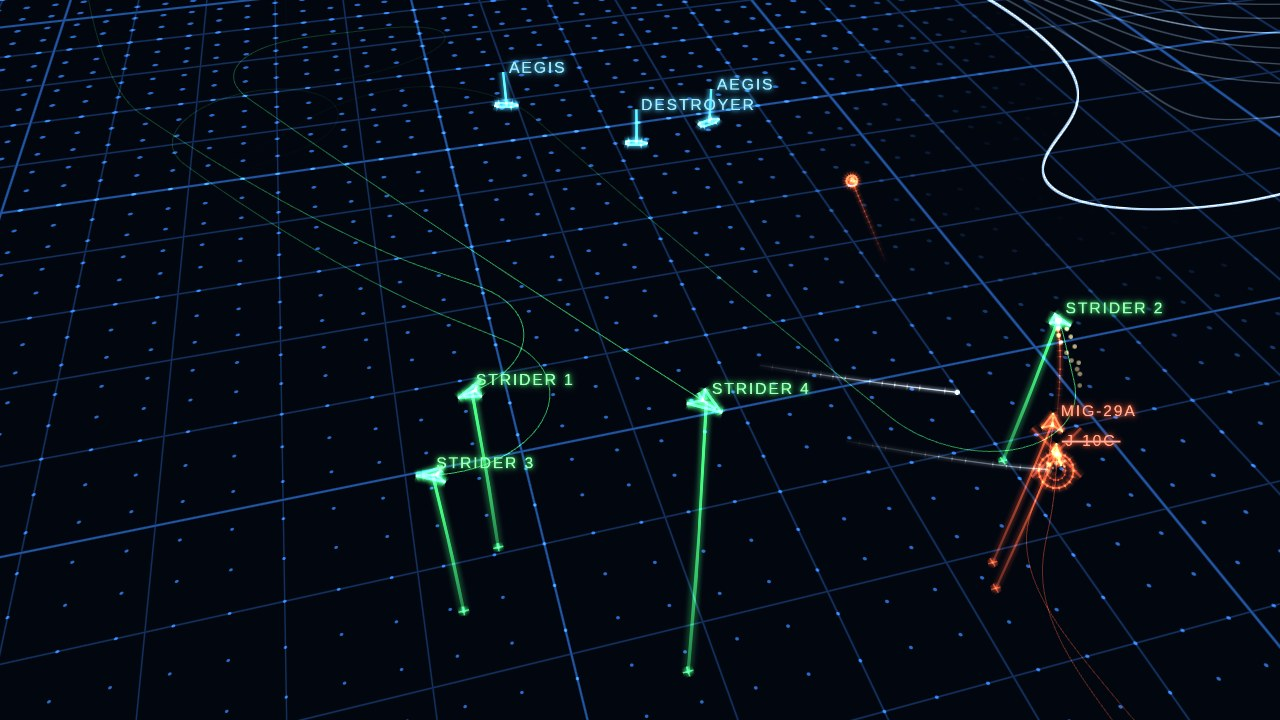
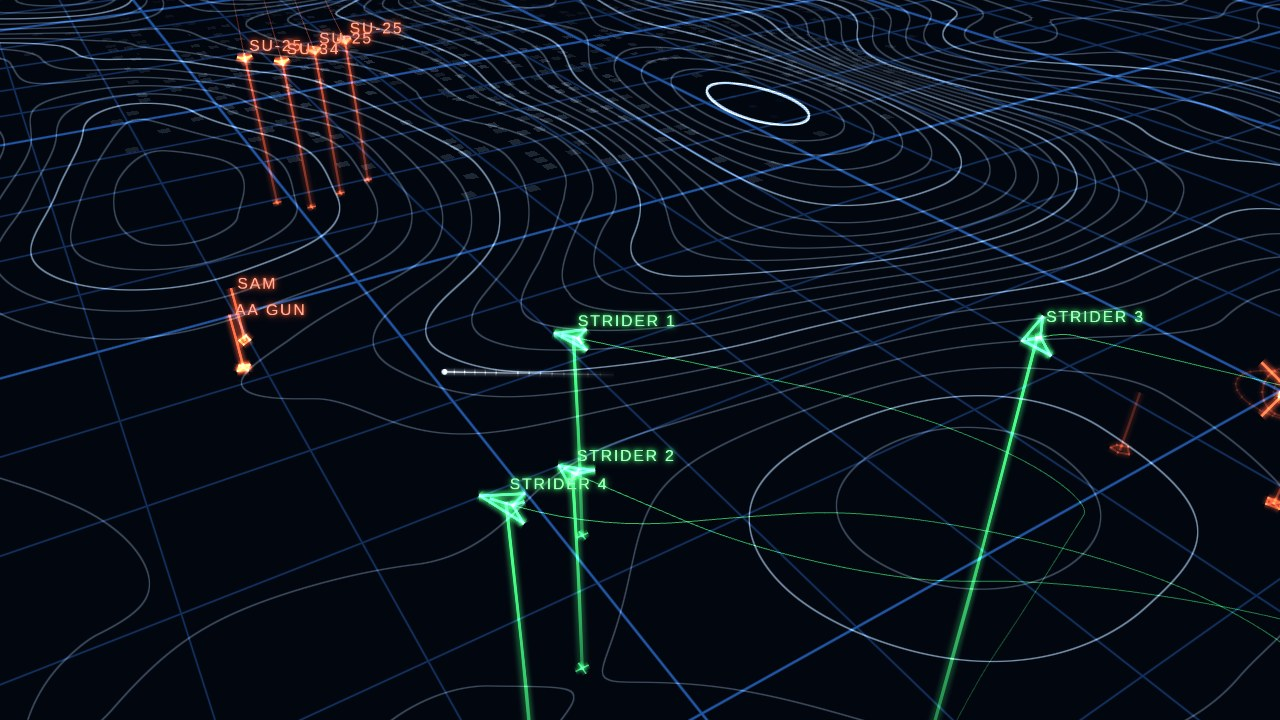
More land: smaller continents, the route heads for a coast after long stretches of sea
Continents, mountains and cities at half the scale; ROUTE scouts ±90° for the nearest coast after 60 s
of open sea (150 s of land). Longest sea stretch over 12 random 20-min runs: 139 s (was up to 751 s).
Leftover enemy ground units fade 25-45 s after a fight.

diff --git a/js/squad.js b/js/squad.js
@@ -7,6 +7,7 @@
    Plane modes: form (slot flying) | engage (attack run on p.target) | reposition (after a shot / a break, maneuvers) |
    rejoin (back to the slot after a fight). Evading a missile is a break turn + flares, then reposition. */
 const CRUISE = 24;
+const SAME_SEA_T = 60, SAME_LAND_T = 150, SCOUT_R = 3000;   // s over open sea / land before the route heads for a coast; look-out range
 const FORMATIONS = {   // slots: [right, up, back] relative to ROUTE (lead first)
   finger:  [[0, 0, 0], [-9, 0, -7], [9, 0, -7], [18, 0, -14]],
   diamond: [[0, 0, 0], [-9, -1, -7], [9, -1, -7], [0, -2, -14]],
@@ -16,17 +17,35 @@ const FORMATIONS = {   // slots: [right, up, back] relative to ROUTE (lead first
 };
 const ROUTE = {
   pos: new V3(0, 70, 0), heading: 0, tgtHeading: 0, alt: 70, tgtAlt: 70, speed: CRUISE, turnT: 25, altT: 12,
-  fwd: new V3(0, 0, 1), right: new V3(-1, 0, 0), combat: false,
+  fwd: new V3(0, 0, 1), right: new V3(-1, 0, 0), combat: false, overLand: false, sameT: 0, scouted: false,
   get cruise() { return CRUISE * CFG.speed / 100; },
   update(dt) {
     this.turnT -= dt; this.altT -= dt;
-    if (this.turnT <= 0) { this.turnT = rand(18, 50); this.tgtHeading = this.heading + (Math.random() < 0.5 ? -1 : 1) * rand(15, 75) * DEG; }
+    // variety: open sea (or land) that goes on too long → turn toward the nearest coast
+    const over = TERRAIN.land(this.pos.x, this.pos.z) > 0;
+    if (over !== this.overLand) { this.overLand = over; this.sameT = 0; this.scouted = false; } else this.sameT += dt;
+    if (!this.scouted && this.sameT > (over ? SAME_LAND_T : SAME_SEA_T)) { this.scouted = true; this.turnT = Math.min(this.turnT, 0); }
+    if (this.turnT <= 0) {
+      this.turnT = rand(18, 50);
+      const coast = this.scouted && this.sameT > 1 ? this.scout(!over) : null;
+      this.tgtHeading = coast != null ? coast : this.heading + (Math.random() < 0.5 ? -1 : 1) * rand(15, 75) * DEG;
+    }
     if (this.altT <= 0) { this.altT = rand(10, 30); this.tgtAlt = rand(38, 140); }
     this.heading = approachAngle(this.heading, this.tgtHeading, 0.06 * dt);
     this.alt += clamp(this.tgtAlt - this.alt, -3.5 * dt, 3.5 * dt);
     const sp = this.combat ? this.cruise * 0.45 : this.cruise; this.speed += clamp(sp - this.speed, -6 * dt, 4 * dt);
     this.fwd.set(Math.sin(this.heading), 0, Math.cos(this.heading)); this.right.set(-Math.cos(this.heading), 0, Math.sin(this.heading));
     this.pos.addScaledVector(this.fwd, this.speed * dt); this.pos.y = this.alt;
+  },
+  /* the heading (within ±90°) that reaches land (wantLand) or sea soonest, or null if none within SCOUT_R */
+  scout(wantLand) {
+    let best = null, bd = Infinity;
+    for (let a = -90; a <= 90; a += 15) {
+      const h = this.heading + a * DEG, sx = Math.sin(h), sz = Math.cos(h);
+      for (let d = 150; d <= SCOUT_R && d < bd; d += 150)
+        if ((TERRAIN.land(this.pos.x + sx * d, this.pos.z + sz * d) > 0) === wantLand) { if (d + Math.abs(a) < bd) { bd = d + Math.abs(a); best = h; } break; }
+    }
+    return best;
   },
   /* world position of a formation offset */
   slot(o, out) { return out.copy(this.pos).addScaledVector(this.right, o[0]).addScaledVector(this.fwd, o[2]).setY(this.pos.y + o[1]); },

diff --git a/js/noise.js b/js/noise.js
@@ -27,18 +27,18 @@ const wrapP = v => ((v % NOISE_P) + NOISE_P) % NOISE_P;
    relief(x, z): ≥ 0, contour lines are drawn on it (mountains get many).
    city(x, z): 0..1 built-up area (low land only). */
 function landField(x, z) {
-  const big = vnoise(x, z, 8192, 1);                                     // continents vs oceans
-  const f = vnoise(x, z, 2048, 2) * 0.5 + vnoise(x, z, 1024, 3) * 0.27 + vnoise(x, z, 512, 4) * 0.15 + vnoise(x, z, 256, 5) * 0.08;
-  return f - 0.5 + (big - 0.5) * 0.7;
+  const big = vnoise(x, z, 4096, 1);                                     // continents vs oceans
+  const f = vnoise(x, z, 1024, 2) * 0.5 + vnoise(x, z, 512, 3) * 0.27 + vnoise(x, z, 256, 4) * 0.15 + vnoise(x, z, 128, 5) * 0.08;
+  return f - 0.5 + (big - 0.5) * 0.5;
 }
-function mountField(x, z) { const m = vnoise(x, z, 4096, 6); return m * m * (3 - 2 * m); }
+function mountField(x, z) { const m = vnoise(x, z, 2048, 6); return m * m * (3 - 2 * m); }
 function reliefField(x, z, land) {
   const mt = clamp((mountField(x, z) - 0.45) / 0.3, 0, 1);
   const r = vnoise(x, z, 512, 7) * 0.6 + vnoise(x, z, 128, 8) * 0.3 + vnoise(x, z, 64, 9) * 0.1;
   return Math.max(land, 0) * (1.2 + mt * 5) + mt * r * Math.min(1, Math.max(land, 0) * 12) * 1.6;
 }
 function cityField(x, z, land) {
-  const c = clamp((vnoise(x, z, 1024, 10) - 0.62) / 0.12, 0, 1);
+  const c = clamp((vnoise(x, z, 512, 10) - 0.62) / 0.12, 0, 1);
   return c * clamp(land * 30, 0, 1) * clamp((0.2 - land) * 10, 0, 1);
 }
 
@@ -53,18 +53,18 @@ float vnoise(vec2 p, float cell, float s){
   return a + (b - a) * u.x + (c - a) * u.y + (a - b - c + d) * u.x * u.y;
 }
 float landField(vec2 p){
-  float big = vnoise(p, 8192.0, 1.0);
-  float f = vnoise(p, 2048.0, 2.0) * 0.5 + vnoise(p, 1024.0, 3.0) * 0.27 + vnoise(p, 512.0, 4.0) * 0.15 + vnoise(p, 256.0, 5.0) * 0.08;
-  return f - 0.5 + (big - 0.5) * 0.7;
+  float big = vnoise(p, 4096.0, 1.0);
+  float f = vnoise(p, 1024.0, 2.0) * 0.5 + vnoise(p, 512.0, 3.0) * 0.27 + vnoise(p, 256.0, 4.0) * 0.15 + vnoise(p, 128.0, 5.0) * 0.08;
+  return f - 0.5 + (big - 0.5) * 0.5;
 }
-float mountField(vec2 p){ float m = vnoise(p, 4096.0, 6.0); return m * m * (3.0 - 2.0 * m); }
+float mountField(vec2 p){ float m = vnoise(p, 2048.0, 6.0); return m * m * (3.0 - 2.0 * m); }
 float reliefField(vec2 p, float land){
   float mt = clamp((mountField(p) - 0.45) / 0.3, 0.0, 1.0);
   float r = vnoise(p, 512.0, 7.0) * 0.6 + vnoise(p, 128.0, 8.0) * 0.3 + vnoise(p, 64.0, 9.0) * 0.1;
   return max(land, 0.0) * (1.2 + mt * 5.0) + mt * r * min(1.0, max(land, 0.0) * 12.0) * 1.6;
 }
 float cityField(vec2 p, float land){
-  float c = clamp((vnoise(p, 1024.0, 10.0) - 0.62) / 0.12, 0.0, 1.0);
+  float c = clamp((vnoise(p, 512.0, 10.0) - 0.62) / 0.12, 0.0, 1.0);
   return c * clamp(land * 30.0, 0.0, 1.0) * clamp((0.2 - land) * 10.0, 0.0, 1.0);
 }
 `;

diff --git a/tests/flight.spec.js b/tests/flight.spec.js
@@ -4,20 +4,22 @@ const { test, expect } = require('./support/harness');
 test('20 minutes of peace: formation, altitude changes, new landscape, floating origin', async ({ wp }) => {
   await wp.boot();
   const r = await wp.run(() => {
-    const out = { violations: [], slotErr: [], alts: [], land: 0, sea: 0, headings: [], rolls: 0 };
+    const out = { violations: [], slotErr: [], alts: [], land: 0, sea: 0, headings: [], rolls: 0, seaRun: 0, longestSea: 0, crossings: 0, prev: null };
     const sl = new THREE.Vector3();
     __t.sim(30, { audio: false });
     for (let k = 0; k < 1170; k++) {             // 19.5 min, one sample per second
       const res = __t.sim(1, { audio: false }); out.violations.push(...res.violations);
       for (const p of SQUAD.planes.slice(1)) if (!p.maneuvering) out.slotErr.push(ROUTE.slot(FORMATIONS[SQUAD.form][p.idx], sl).distanceTo(p.pos));
       out.alts.push(ROUTE.alt); out.headings.push(ROUTE.heading);
-      if (TERRAIN.land(ROUTE.pos.x, ROUTE.pos.z) > 0) out.land++; else out.sea++;
+      const over = TERRAIN.land(ROUTE.pos.x, ROUTE.pos.z) > 0;
+      if (over) { out.land++; out.seaRun = 0; } else { out.sea++; out.longestSea = Math.max(out.longestSea, ++out.seaRun); }
+      if (out.prev !== null && over !== out.prev) out.crossings++; out.prev = over;
       if (SQUAD.planes.some(p => p.maneuvering)) out.rolls++;
     }
     out.slotErr.sort((a, b) => a - b);
     return { violations: out.violations.slice(0, 10), p50: out.slotErr[Math.floor(out.slotErr.length * 0.5)], p95: out.slotErr[Math.floor(out.slotErr.length * 0.95)],
       altRange: Math.max(...out.alts) - Math.min(...out.alts), headRange: Math.max(...out.headings) - Math.min(...out.headings),
-      land: out.land, sea: out.sea, shifts: WORLD.shifts, rolls: out.rolls, enemies: ENEMIES.spawned, modes: SQUAD.planes.map(p => p.mode) };
+      land: out.land, sea: out.sea, longestSea: out.longestSea, crossings: out.crossings, shifts: WORLD.shifts, rolls: out.rolls, enemies: ENEMIES.spawned, modes: SQUAD.planes.map(p => p.mode) };
   });
   expect(r.violations).toEqual([]);
   expect(r.p50, 'median distance from the formation slot').toBeLessThan(6);
@@ -26,6 +28,8 @@ test('20 minutes of peace: formation, altitude changes, new landscape, floating 
   expect(r.headRange, 'the route turns').toBeGreaterThan(0.5);
   expect(r.land, 'flies over land').toBeGreaterThan(10);
   expect(r.sea, 'flies over sea').toBeGreaterThan(10);
+  expect(r.longestSea, 'seconds of open sea in a row (the route heads for a coast)').toBeLessThan(200);
+  expect(r.crossings, 'coastlines crossed').toBeGreaterThan(8);
   expect(r.shifts, 'the floating origin recentred').toBeGreaterThan(5);
   expect(r.rolls, 'the odd roll / loop in peace').toBeGreaterThan(0);
   expect(r.enemies, 'no enemies without music').toBe(0);

diff --git a/index.html b/index.html
@@ -4,26 +4,26 @@
 <meta charset="utf-8">
 <title>Wireframe Skies</title>
 <link rel="icon" type="image/svg+xml" href="favicon.svg">
-<link rel="stylesheet" href="style.css?v=17">
+<link rel="stylesheet" href="style.css?v=19">
 </head>
 <body>
 <canvas id="c"></canvas>
 <script src="js/three.min.js"></script>
-<script src="js/core.js?v=17"></script>
-<script src="js/noise.js?v=17"></script>
-<script src="js/terrain.js?v=17"></script>
-<script src="js/flight.js?v=17"></script>
-<script src="js/models.js?v=17"></script>
-<script src="js/effects.js?v=17"></script>
-<script src="js/audio.js?v=17"></script>
-<script src="js/squad.js?v=17"></script>
-<script src="js/forces.js?v=17"></script>
-<script src="js/enemies.js?v=17"></script>
-<script src="js/allies.js?v=17"></script>
-<script src="js/camera.js?v=17"></script>
-<script src="js/main.js?v=17"></script>
-<script src="js/properties.js?v=17"></script>
-<script src="js/settings.js?v=17"></script>
+<script src="js/core.js?v=19"></script>
+<script src="js/noise.js?v=19"></script>
+<script src="js/terrain.js?v=19"></script>
+<script src="js/flight.js?v=19"></script>
+<script src="js/models.js?v=19"></script>
+<script src="js/effects.js?v=19"></script>
+<script src="js/audio.js?v=19"></script>
+<script src="js/squad.js?v=19"></script>
+<script src="js/forces.js?v=19"></script>
+<script src="js/enemies.js?v=19"></script>
+<script src="js/allies.js?v=19"></script>
+<script src="js/camera.js?v=19"></script>
+<script src="js/main.js?v=19"></script>
+<script src="js/properties.js?v=19"></script>
+<script src="js/settings.js?v=19"></script>
 <script>
   // Audio listener is registered at the end of <body>, as the Wallpaper Engine docs recommend
   if (window.wallpaperRegisterAudioListener) {

diff --git a/js/enemies.js b/js/enemies.js
@@ -56,7 +56,12 @@ class EnemyForce extends Force {
       if (this.waveT <= 0 && this.alive < want) { this.wave(); this.waveT = rand(5, 9) / Math.max(0.3, CFG.density / 100); }
     }
     if (fighting) this.fireT = Math.max(-1, this.fireT - dt);
-    for (const e of this.list) if (e.state === 'live' && !AUD.armed && e.plane && e.mode !== 'leave') { e.mode = 'leave'; e.modeT = rand(4, 8); }
+    // after the fight: aircraft fly off (fly → leave), ground units and ships fade out a little later
+    for (const e of this.list) {
+      if (e.state !== 'live' || AUD.armed) continue;
+      if (e.mode !== 'leave') { e.mode = 'leave'; e.modeT = e.plane ? rand(4, 8) : rand(25, 45); }
+      else if (!e.plane && (e.modeT -= dt) <= 0) this.vanish(e);
+    }
     super.update(dt);
   }
   fly(e, dt) {

diff --git a/CLAUDE.md b/CLAUDE.md
@@ -38,7 +38,7 @@ Sister project and the reference for conventions: `wladbelsky/carrier-wallpaper`
 
 ## Rules / conventions
 - **After changing any JS/CSS file, bump the cache-buster** `?v=N` on all `<script>`/`<link>` tags in
-  `index.html` (WE's CEF caches aggressively). Current: `v=17`.
+  `index.html` (WE's CEF caches aggressively). Current: `v=19`.
 - **New WE property**: add it to `project.json`, read it in `applyUserProperties` (`main.js`) into `CFG`,
   then run `python tools/gen_properties.py`. Property `order` decides the browser-drawer group
   (0–9 camera, 10–19 audio & combat, 20–29 look, 30–39 flight). `repo.spec.js` checks every property is read.
@@ -75,6 +75,9 @@ Sister project and the reference for conventions: `wladbelsky/carrier-wallpaper`
   `steer`; one heading for the ground is cut short. New maneuver: an entry in `MANEUVERS` with `need(plane, R)`.
 - `ROUTE` moves the formation across the map (gentle turns, altitude changes); in combat it slows down (the battle
   area drifts forward), on stand-down `SQUAD.rejoin` restarts it from the flight's centroid.
+  Variety: after `SAME_SEA_T` s over open sea (`SAME_LAND_T` over land) the next turn heads for the nearest coast
+  (`ROUTE.scout`, ±90°, `SCOUT_R`). Feature sizes in `noise.js` are tuned to the cruise speed — scaling them up
+  brings back minutes of empty sea (`flight.spec.js` checks the longest stretch).
 - Plane modes: `form` (slot flying) · `engage` (has `target`, attack run) · `reposition` (after a shot / break,
   maneuvers) · `rejoin` (back to the slot; becomes `form` within 25 units).
   `target` ↔ `e.chasers` must always match: drop a target only through `SQUAD.release(p)`.
@@ -88,7 +91,8 @@ Sister project and the reference for conventions: `wladbelsky/carrier-wallpaper`
   A new kind is a new entry (+ a glyph), not new code.
 - Slots are pooled per type and never disposed (a label sprite; aircraft also a `Plane` and a `Trail`). States:
   `live` → `struck` (X + struck-through name, `STRUCK_T`) → `fade` (`FADE_T`) → freed. Units left more than
-  `FAR_BEHIND` from `ROUTE.pos`, and enemy aircraft after the fight, fade out without the X (`vanish`).
+  `FAR_BEHIND` from `ROUTE.pos` fade out without the X (`vanish`); after the fight enemy aircraft fly off and
+  ground units / ships fade 25–45 s later.
 - Ground / sea units: a flat marker, a pole of `POLE_H` up to the name, a dot near the bottom (the replay look).
   Aircraft: the glyph in its attitude, an altitude line to a ground cross, the name beside it.
 - Enemy waves only while `AUD.fighting`, ahead of `ROUTE`: ground groups only on land, ships only at sea (tests check it).
